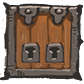
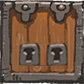
改变盾牌逻辑 为其增加护盾值概念 小于等于0时会破碎 制作盾牌和防护服相关的技能

diff --git a/common/logic/elems/RelicFactory.ts b/common/logic/elems/RelicFactory.ts
@@ -156,7 +156,8 @@ class RelicFactory {
                 ElemFactory.addAI("beforeElemRevive", async (ps) => {
                     if(!ps.achieve)
                         return;
-
+                    
+                    await r.bt().fireEvent("onRelicEffect", {r:r});
                     ps.achieve = false;
                 }, r)
             })
@@ -202,6 +203,7 @@ class RelicFactory {
                     return;
                 }
                 ElemFactory.addAI("onElemChanged", async () => {
+                    await r.bt().fireEvent("onRelicEffect", {r:r});
                     await r.bt().implAddPlayerExp(attrs.dexp, r.pos);
                 }, r, (ps) => ps.subType == "die" && ps.e instanceof Monster && ps.e.isHazard())
             })
@@ -217,13 +219,14 @@ class RelicFactory {
                 ElemFactory.addAI("onElemChanged", async (ps) => {
                     var m = <Monster>ps.e;
                     if(Utils.indexOf(m.dropItems, (e:Elem) => e.type == "Coins") < 0) return;
-                                        
+                    
+                    await r.bt().fireEvent("onRelicEffect", {r:r});
                     m.addDropItem(m.bt().level.createElem("Coins", {cnt:attrs.num}));
                 }, r, (ps) => ps.subType == "preDie" && ps.e instanceof Monster)
             })
         },
 
-        // 防护专精,每层额外增加一件防护服
+        // 防护专精,每层额外增加一件防护服,防护服额外减少敌人1点攻击
         "DefenseProficient": (attrs) => {
             return this.createRelic(attrs, false, (r:Relic, enable:boolean) => {
                 if (!enable) {
@@ -235,6 +238,53 @@ class RelicFactory {
                 r = <Relic>ElemFactory.addAI("onCalcElemAttrs", (ps) => {
                     ps.dPower += 1;
                 }, r, (ps) => ps.e.type == "Vest", false, true);
+            })
+        },
+
+        // 防护探索	每层额外增加一件防护服，你知道所有防护服的位置
+        "VestDetector": (attrs) => {
+            return this.createRelic(attrs, false, (r:Relic, enable:boolean) => {
+                if (!enable) {
+                    r.clearAIAtLogicPoint("onLevelInited");
+                    r.clearAIAtLogicPoint("onStartupRegionUncovered");
+                    return;
+                }                
+                r = RelicFactory.addElemsOnLevelInit(r);
+                r = <Relic>ElemFactory.addAI("onStartupRegionUncovered", async () => {
+                    var vests = r.bt().level.map.findAllElems((e:Elem) => e.getGrid().isCovered() && !e.getGrid().isMarked() && e.type == "Vest");
+                    for (var vest of vests){
+                        await r.bt().fireEvent("onRelicEffect", {r:r});
+                        await r.bt().implMark(vest.pos.x, vest.pos.y);
+                    }
+                }, r);
+            })
+        },
+
+        // 防护免疫	每层额外增加一件防护服，防护服可用的时候有2%的几率免疫伤害（每级+2%，最高5）
+        "VestImmune": (attrs) => {
+            return this.createRelic(attrs, false, (r:Relic, enable:boolean) => {
+                if (!enable) {
+                    r.clearAIAtLogicPoint("onLevelInited");
+                    return;
+                }
+                r = RelicFactory.addElemsOnLevelInit(r);
+            })
+        },
+
+        // 防护反伤	每层额外增加一件防护服，你受到攻击时对怪物造成2点反伤（每级+2，最高5）
+        "VestThorns": (attrs) => {
+            return this.createRelic(attrs, false, (r:Relic, enable:boolean) => {
+                if (!enable) {
+                    r.clearAIAtLogicPoint("onLevelInited");
+                    r.clearAIAtLogicPoint("onAttacked");
+                    return;
+                }                
+                r = RelicFactory.addElemsOnLevelInit(r);
+                r = <Relic>ElemFactory.addAI("onAttacked", async (ps) => {
+                    if (ps.r.r != "attacked" || ps.r.dhp >= 0) return;
+                    await r.bt().fireEvent("onRelicEffect", {r:r});
+                    await r.bt().implAddMonsterHp(ps.attackerAttrs.owner, r.attrs.thornsDamage);
+                }, r, (ps) => ps.targetAttrs.owner instanceof Player);
             })
         },
 
@@ -289,6 +339,27 @@ class RelicFactory {
             })
         },
 
+        // 飞刀专精	每场战斗增加一把飞刀，飞刀攻击时无视护甲
+        "KnifeProficient": (attrs) => {
+            return this.createRelic(attrs, false, (r:Relic, enable:boolean) => {
+                if (!enable) {
+                    r.clearAIAtLogicPoint("onCalcAttacking");
+                    r.clearAIAtLogicPoint("onLevelInited");
+                    return;
+                }
+                r = <Relic>ElemFactory.addAI("onCalcAttacking", (ps) => {
+                    ps.attackerAttrs.attackFlags.push("Pierce");
+                }, r, (ps) => ps.subType == "player2monster" && ps.weapon && ps.weapon.type == "Knife", false, true)
+                r = RelicFactory.addElemsOnLevelInit(r);
+            })
+        },
+
+        // 飞刀流3	每场战斗增加一把飞刀，你的飞刀可以攻击任意格子（boss技能）
+        // 剧毒之刃	每场战斗增加一把飞刀，飞刀攻击附加一层毒（每级+1，最高5）
+        // 无尽之刃	每场战斗增加一把飞刀，飞刀杀死怪物后有15%的几率不会消耗（每级+15，最高5）
+        // 飞刀流6	每场战斗增加一把飞刀，你知道所有飞刀的位置
+
+
         // 怪物猎人,每场战斗开始时标记X个怪物（最多5级）
         "MonsterHunter": (attrs) => {
             return this.createRelic(attrs, false, (r: Relic, enable: boolean) => {
@@ -305,21 +376,6 @@ class RelicFactory {
             })
         },
 
-        // 飞刀专精	每场战斗增加一把飞刀，飞刀攻击时无视护甲
-        "KnifeProficient": (attrs) => {
-            return this.createRelic(attrs, false, (r:Relic, enable:boolean) => {
-                if (!enable) {
-                    r.clearAIAtLogicPoint("onCalcAttacking");
-                    r.clearAIAtLogicPoint("onLevelInited");
-                    return;
-                }
-                r = <Relic>ElemFactory.addAI("onCalcAttacking", (ps) => {
-                    ps.attackerAttrs.attackFlags.push("Pierce");
-                }, r, (ps) => ps.subType == "player2monster" && ps.weapon && ps.weapon.type == "Knife", false, true)
-                r = RelicFactory.addElemsOnLevelInit(r);
-            })
-        },
-
         // 探索强化	一只怪物死亡，则随机显示一件物品的位置
         "ExploreEnhanced": (attrs) => {
             return this.createRelic(attrs, false, (r: Relic, enable: boolean) => {
@@ -331,7 +387,7 @@ class RelicFactory {
                     var e = BattleUtils.findRandomElems(r.bt(), 1, (e: Elem) => e.getGrid().isCovered() && !e.getGrid().isMarked() && !(e instanceof Monster))[0];
                     if (e)
                         await r.bt().implMark(e.pos.x, e.pos.y);
-                }, r, (ps) => ps.subType == "die" && ps.e instanceof Monster && ps.e.isHazard())
+                }, r, (ps) => ps.subType == "die" && ps.e instanceof Monster && ps.e.isHazard() && ps.e.type != "PlaceHolder")
             })
         },
 
@@ -390,10 +446,68 @@ class RelicFactory {
                     r.clearAIAtLogicPoint("onCalcCD");
                     return;
                 }
+                r = RelicFactory.addElemsOnLevelInit(r);
                 <Relic>ElemFactory.addAI("onCalcCD", (ps) => {
                     ps.dcd.b -= r.attrs.dcd;
                 }, r, (ps) => ps.subType == "resetCD" && ps.e.type == "Shield", false, true)
+            })
+        },
+
+        // 盾牌格挡	每场战斗增加一面盾牌，盾牌的吸收伤害提升2点（每级+2，最高5级）
+        "ShieldBlock": (attrs) => {
+            return this.createRelic(attrs, false, (r:Relic, enable:boolean) => {
+                if (!enable) {
+                    r.clearAIAtLogicPoint("onLevelInited");
+                    r.clearAIAtLogicPoint("onLevelCreateElem");
+                    return;
+                }
                 r = RelicFactory.addElemsOnLevelInit(r);
+                r = <Relic>ElemFactory.addAI("onLevelCreateElem", (ps) => {
+                    var e:Elem = ps.e;
+                    e["shield"] += r.attrs.dShield;
+                }, r, (ps) => ps.type == "Shield", false, true);
+            })
+        },
+
+        // 盾牌猛击	每场战斗增加一面盾牌，你可以将你的盾牌投掷出去造成不超过剩余吸收阈值的伤害，达到阈值后盾牌碎裂（boss技能）
+        "ShieldSlam": (attrs) => {
+            return this.createRelic(attrs, false, (r:Relic, enable:boolean) => {
+                if (!enable) {
+                    r.clearAIAtLogicPoint("onLevelInited");
+                    r.clearAIAtLogicPoint("onLevelCreateElem");
+                    return;
+                }
+                r = RelicFactory.addElemsOnLevelInit(r);
+                // 给新创建的盾牌加入使用逻辑,如果在战斗中,还要找到地图中所有的盾牌,加入使用逻辑
+                if (r.player && r.player.bt) {
+                    var bt = r.player.bt();
+                    var shields = bt.level.map.findAllElems((e:Elem) => e.type == "Shield");
+                    for (var shield of shields)
+                        shield = ItemFactory.addUseLogicToShield(shield);
+                }
+                r = <Relic>ElemFactory.addAI("onLevelCreateElem", (ps) => {
+                    var shield = ps.e;
+                    shield = ItemFactory.addUseLogicToShield(shield);
+                }, r, (ps) => ps.type == "Shield", false, true);
+            })
+        },
+
+        // 盾牌流4	每场战斗增加一面盾牌，你知道所有盾牌的位置
+        "ShieldDetector": (attrs) => {
+            return this.createRelic(attrs, false, (r:Relic, enable:boolean) => {
+                if (!enable) {
+                    r.clearAIAtLogicPoint("onLevelInited");
+                    r.clearAIAtLogicPoint("onStartupRegionUncovered");
+                    return;
+                }                
+                r = RelicFactory.addElemsOnLevelInit(r);
+                r = <Relic>ElemFactory.addAI("onStartupRegionUncovered", async () => {
+                    var vests = r.bt().level.map.findAllElems((e:Elem) => !e.getGrid().isUncoveredOrMarked() && e.type == "Shield");
+                    for (var vest of vests) {
+                        await r.bt().fireEvent("onRelicEffect", {r:r});
+                        await r.bt().implMark(vest.pos.x, vest.pos.y);
+                    }
+                }, r);
             })
         },
 
@@ -416,7 +530,7 @@ class RelicFactory {
                     if(g){
                         var elemType = elemTypes[r.bt().srand.nextInt(0, elemTypes.length)];
                         var plant = bt.level.createElem(elemType, undefined, r.bt().player);
-                        await bt.fireEvent("onRelicAddElem", {r:r, e:plant});
+                        await bt.fireEvent("onRelicEffect", {r:r});
                         await bt.implAddElemAt(plant, g.pos.x, g.pos.y);
                     }
                     
@@ -463,7 +577,7 @@ class RelicFactory {
                 if(g){
                     var elemType = r.attrs.addOnLevelInit.elems[r.bt().srand.nextInt(0, r.attrs.addOnLevelInit.elems.length)];
                     var e = bt.level.createElem(elemType, undefined, r.bt().player);
-                    await bt.fireEvent("onRelicAddElem", {r:r, e:e});
+                    await bt.fireEvent("onRelicEffect", {r:r});
                     await bt.implAddElemAt(e, g.pos.x, g.pos.y);
                 }
             }

diff --git a/common/logic/elems/ItemFactory.ts b/common/logic/elems/ItemFactory.ts
@@ -149,16 +149,21 @@ class ItemFactory {
             e = ElemFactory.addAI("onCalcAttackResult", async (ps) => {
                 var fs = ps.attackerAttrs.attackFlags;
                 if (Utils.indexOf(fs, (s:string) => s == "AmorPenetrate") > -1) return;
-
-                var priorCD = e.cd;
-                e.resetCD();
+                
                 ps.r.r = "blocked";
+                e["shield"] += ps.r.dhp;
                 ps.r.dhp = ps.r.dshield = 0;
-                await e.bt().fireEvent("onColddownChanged", {e:e, priorCD:priorCD});
+                if (e["shield"] > 0) {
+                    var priorCD = e.cd;
+                    e.resetCD();
+                    await e.bt().fireEvent("onColddownChanged", { e: e, priorCD: priorCD });
+                }
+                else await e.bt().implOnElemDie(e);
             }, e, (ps) => {
                 return e.isValid() && ps.r.r == "attacked" && ps.subType == "monster2targets" && ps.targetAttrs.owner instanceof Player});
             e = ElemFactory.triggerColddownLogic(e);
             e.getElemImgRes = () => (e.cd <= 0) ? e.type : e.type + "Back";
+            e["shield"] = attrs.shield;
             return e;
         },
 
@@ -310,4 +315,9 @@ class ItemFactory {
             return e;
         }
     };
+
+    // 给盾牌增加使用逻辑,你可以将你的盾牌投掷出去造成不超过剩余吸收阈值的伤害，达到阈值后盾牌碎裂
+    public static addUseLogicToShield(e:Elem):Elem {
+        return e;
+    }
 }

diff --git a/common/logic/elems/MonsterFactory.ts b/common/logic/elems/MonsterFactory.ts
@@ -464,7 +464,7 @@ class MonsterFactory {
             m["attackInterval"] = m.attrs.selfExplode.cnt - m["doCount"] + 1; 
             await m.bt().fireEvent("onElemChanged", {subType:"attackInterval", e:m})
             if(m["doCount"] > m.attrs.selfExplode.cnt){
-                m.bt().fireEventSync("onSelfExplode", {m:m});
+                await m.bt().fireEvent("onSelfExplode", {m:m});
                 await m.bt().implMonsterDoSelfExplode(m, {a:m.attrs.selfExplode.mult - 1, b:0, c:0}, false);}
         }, m);
     }
@@ -952,7 +952,7 @@ class MonsterFactory {
                     monster["hideHazardNumber"] = true;
 
                 m["hideHazardStatus"] = "hide";
-                m.bt().fireEventSync("refreshMap");
+                await m.bt().fireEvent("refreshMap");
             }
             else if (m.bt().player["san"] >= 70 && m["hideHazardStatus"] != "show") {
                 var ms = m.bt().level.map.findAllElems((e: Elem) => e instanceof Monster && e.type != "PlaceHolder" && !e.isBoss && e.isHazard());
@@ -960,7 +960,7 @@ class MonsterFactory {
                     monster["hideHazardNumber"] = false;
 
                 m["hideHazardStatus"] = "show";
-                m.bt().fireEventSync("refreshMap");
+                await m.bt().fireEvent("refreshMap");
             }
         }, m, (ps) => ps.subType == "san");
         m = MonsterFactory.doHideHazardNumberOnNewMonsterAdded(m);

diff --git a/client/src/view/MainView.ts b/client/src/view/MainView.ts
@@ -201,7 +201,7 @@ class MainView extends egret.DisplayObjectContainer {
             "onElemMoving", "onElemFlying", "onElemImgFlying", "onAllCoveredAtInit", "onSuckPlayerBlood", "onMonsterTakeElem", "onBuffAdded", "onBuffRemoved",
             "onEyeDemonUncoverGrids", "onElemFloating", "canNotUseItem", "onColddownChanged", "onMonsterEatFood",
             "onAddDeathGodStep", "onElem2NextLevel", "onUseElemAt", "onUseElem", "onGoOutLevel", "onNotifyElemsDropped",
-            "onCandyCannon", "onMakeWanted", "onInitBattleView", "onRelicAddElem", "onMonsterCharmed", "onCloakImmunizeSneak",
+            "onCandyCannon", "onMakeWanted", "onInitBattleView", "onRelicEffect", "onMonsterCharmed", "onCloakImmunizeSneak",
             "onSwatheItemWithCocoon", "summonByDancer", "onGetMarkAllAward", "onStartupRegionUncovered", "onSneaking", "onGoOutLevel",
             "relicsEquippedMaxNumAdded", "onPlayerDying", "onPlayerReborn", "onUseProp", "onElemRevive", "refreshMap", 
             "onPlayerLevelUp", "onSelfExplode"

diff --git a/client/src/view/GridView.ts b/client/src/view/GridView.ts
@@ -232,6 +232,15 @@ class GridView extends egret.DisplayObjectContainer {
                     this.showLayer.addChild(this.cdImg);
                 }
 
+                // 护盾，右上角
+                if (e["shield"] > 0) {
+                    this.shieldBg.x = this.width - this.shieldBg.width; this.shieldBg.y = 0;
+                    this.showLayer.addChild(this.shieldBg);
+                    this.shield.text = e["shield"].toString();
+                    this.putNumOnBg(this.shield, this.shieldBg);
+                    this.showLayer.addChild(this.shield);
+                }
+
                 // 禁止符号
                 if (!e.attrs.invisible && !this.map.isGenerallyValid(e.pos.x, e.pos.y) && e.type != "Hole")
                     this.showLayer.addChild(this.banImg);

diff --git a/common/logic/Level.ts b/common/logic/Level.ts
@@ -71,7 +71,12 @@ class Level {
             }
         }
 
-        return ElemFactory.doDropItemsOnDie(e);
+        e = ElemFactory.doDropItemsOnDie(e);
+        
+        // 部分元素的创建过程受到遗物的影响,此处只能触发同步逻辑点
+        this.bt.triggerLogicPointSync("onLevelCreateElem", {e:e, type:type})
+
+        return e;
     }
 
     // 创建初始元素

diff --git a/client/src/view/AniView.ts b/client/src/view/AniView.ts
@@ -1503,7 +1503,7 @@ class AniView extends egret.DisplayObjectContainer {
         sv["resetSelf"]();
     }
 
-    public async onRelicAddElem(ps){
+    public async onRelicEffect(ps){
         var relics = this.bv.relics;
         var relicImg = this.getBitmapOfRelic(ps.r);
         if(relicImg)
